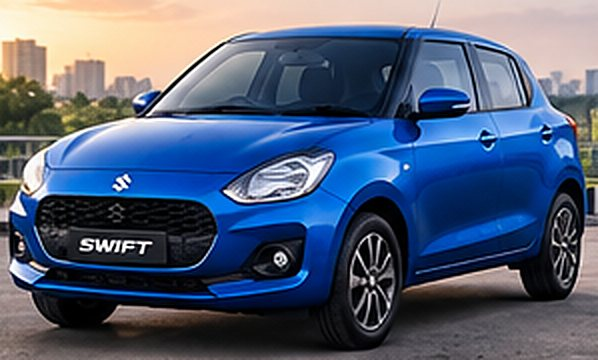
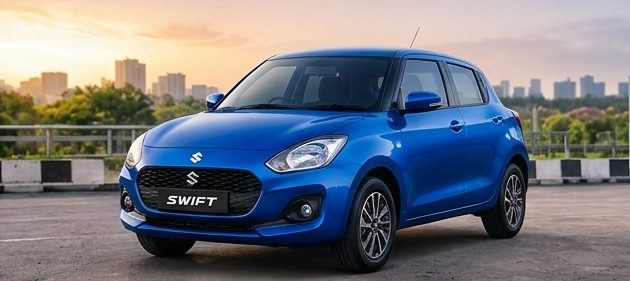
BS Car Rentals: sharper car photos and a location map
Replaced the car photos with the owner's higher-resolution set (labels
removed, garbled Fronx plate blurred, tighter Thar Roxx and XUV300
crops). The hero now features the sharpest shots: Thar Roxx, Scorpio N,
XUV700, XUV300 and Swift Dzire. Added an embedded Google map of Lokhra
Chagalpara, Sawkuchi in the contact section, in grayscale to match the
design, with a Get directions button.

Claude-Session: https://claude.ai/code/session_012usfoy4ALFqT43J37CxpxH

diff --git a/bs-car-rentals/index.html b/bs-car-rentals/index.html
@@ -179,6 +179,16 @@ details.more ol{color:var(--dim);font-size:14.5px;padding-left:20px;margin:12px 
 .q[open] summary::after{transform:rotate(45deg)}
 .q p{color:var(--dim);padding:0 0 22px;max-width:62ch}
 
+/* map */
+.map{position:relative;margin-top:2px;border:2px solid var(--line);border-top:0;height:420px;background:#dfe4e8}
+.map iframe{position:absolute;inset:0;width:100%;height:100%;border:0;filter:grayscale(1) contrast(1.05)}
+.map .pin{position:absolute;left:24px;bottom:24px;width:min(340px,calc(100% - 48px));background:var(--dark);color:#fff;padding:24px}
+.map .pin small{display:block;font-size:12.5px;letter-spacing:.06em;text-transform:uppercase;color:#aeb6bc}
+.map .pin>b{display:block;font-size:22px;font-weight:400;margin-top:8px}
+.map .pin p{color:#aeb6bc;font-size:14.5px;margin-top:6px}
+.map .pin .cta{margin-top:18px;height:46px}
+.map .pin .cta b{font-size:14px;margin:0;padding:0 22px}
+.map .pin .cta i{width:46px}
 /* contact + footer */
 .contact{display:grid;grid-template-columns:repeat(3,1fr);gap:2px;background:var(--line);border:2px solid var(--line)}
 .ct{background:var(--paper);padding:28px;display:block;transition:background .2s}
@@ -220,6 +230,9 @@ footer .made img{width:18px;height:18px}
   .book .grid{gap:30px}
   .fleet{grid-template-columns:1fr 1fr}
   .contact{grid-template-columns:1fr}
+  .map{height:auto;border-top:0}
+  .map iframe{position:relative;height:320px;display:block}
+  .map .pin{position:relative;left:auto;bottom:auto;width:auto}
   footer .cols{grid-template-columns:1fr 1fr}
 }
 @media (max-width:560px){
@@ -355,11 +368,15 @@ footer .made img{width:18px;height:18px}
 </div></section>
 
 <section class="sec" id="contact"><div class="wrap">
-  <div class="head"><div><p class="kick rv">Contact</p><h2 class="h2 rv">Talk to us.</h2></div></div>
+  <div class="head"><div><p class="kick rv">Contact</p><h2 class="h2 rv">Talk to us,<br><span class="f">or come and see the cars.</span></h2></div></div>
   <div class="contact rv">
     <a class="ct" href="tel:+919101583341"><small>Call</small><b>91015 83341</b><span>Tap to call <i>→</i></span></a>
     <a class="ct" href="https://wa.me/919101583341" target="_blank" rel="noopener"><small>WhatsApp</small><b>91015 83341</b><span>Tap to chat <i>→</i></span></a>
     <a class="ct" href="https://www.google.com/maps/search/?api=1&amp;query=Lokhra+Chagalpara+Sawkuchi+Guwahati+781040" target="_blank" rel="noopener"><small>Visit</small><b>Lokhra, Guwahati</b><span>Chagalpara, Sawkuchi, 781040 <i>→</i></span></a>
+  </div>
+  <div class="map rv">
+    <iframe title="Map: BS Car Rentals, Lokhra Chagalpara, Sawkuchi, Guwahati" src="https://www.google.com/maps?q=Lokhra+Chagalpara,+Sawkuchi,+Guwahati,+Assam+781040&amp;z=15&amp;output=embed" loading="lazy" referrerpolicy="no-referrer-when-downgrade" allowfullscreen></iframe>
+    <div class="pin"><small>Find us</small><b>BS Car Rentals</b><p>Lokhra Chagalpara, Sawkuchi<br>Guwahati, Assam 781040</p><a class="cta" href="https://www.google.com/maps/dir/?api=1&amp;destination=Lokhra+Chagalpara+Sawkuchi+Guwahati+781040" target="_blank" rel="noopener"><b>Get directions</b><i aria-hidden="true">→</i></a></div>
   </div>
 </div></section>
 </main>
@@ -412,9 +429,9 @@ footer .made img{width:18px;height:18px}
   var FEAT=[
     {n:"Thar Roxx",line:"Five doors, made for hills and weekend getaways."},
     {n:"XUV700",line:"Seven seats and real comfort for the family road trip."},
-    {n:"Creta",line:"The easy SUV for the city and a drive to Shillong."},
-    {n:"Innova Crysta",line:"Space for everyone, and everything, on long journeys."},
-    {n:"Swift",line:"Easy to park, light on fuel, made for Guwahati."}];
+    {n:"Scorpio N",line:"Seven seats and real road presence for any trip."},
+    {n:"XUV300",line:"Automatic and easy to drive, made for city traffic."},
+    {n:"Swift Dzire",line:"A comfortable sedan for family trips, light on fuel."}];
   var i=0,timer=null,busy=false,DUR=6000,stage=$("#stage"),copy=$("#copy");
   $("#tot").textContent=("0"+FEAT.length).slice(-2);
   FEAT.forEach(function(f){var im=new Image();im.src=src(find(f.n))});
